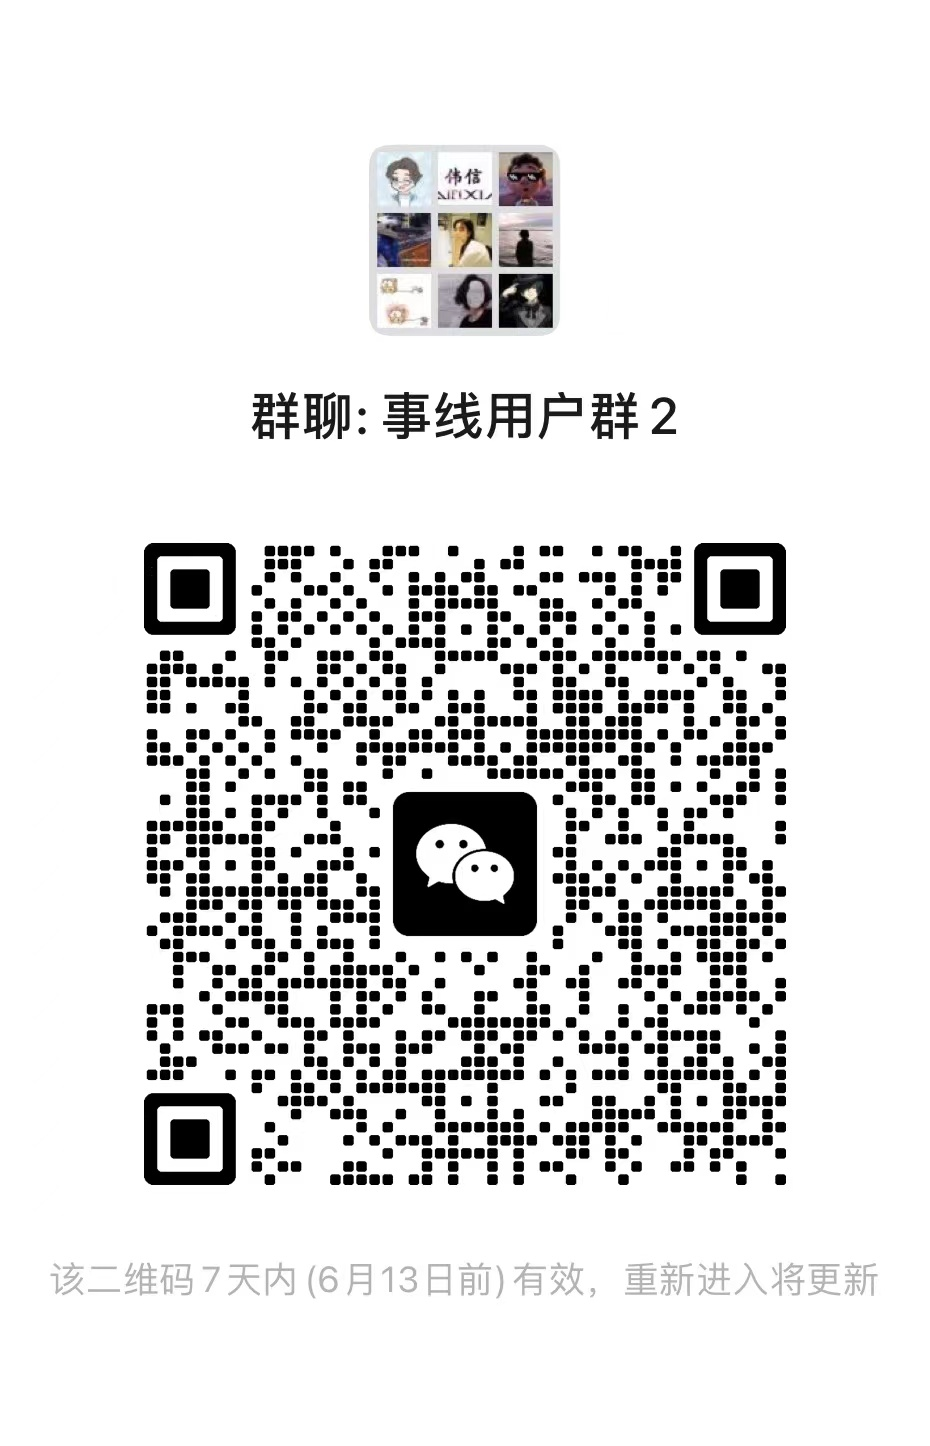
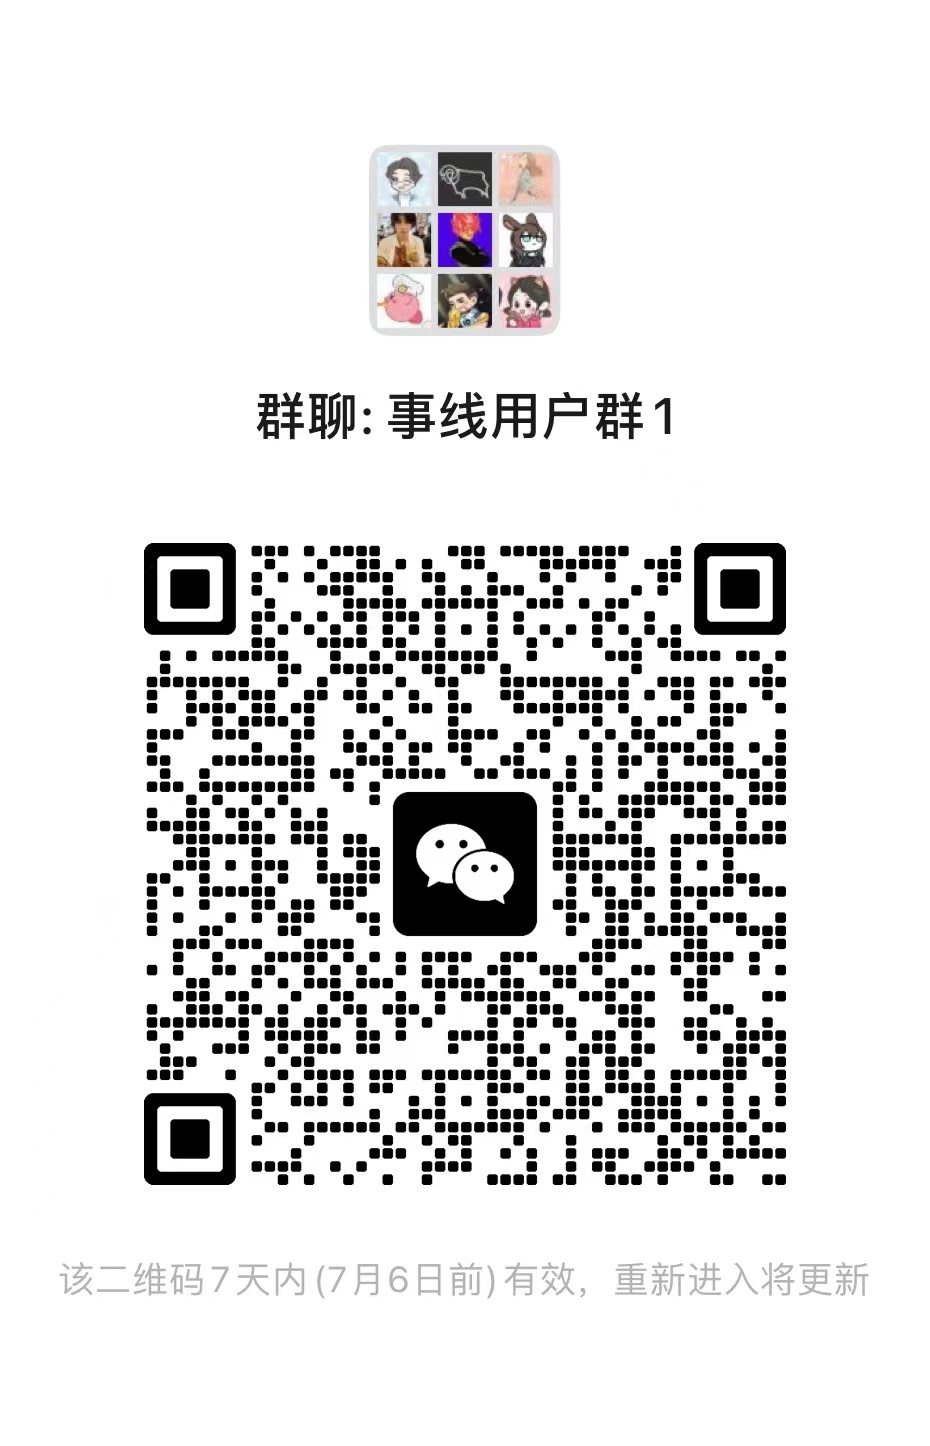
a

diff --git a/docs/01.pages/01.About/002.faq.md b/docs/01.pages/01.About/002.faq.md
@@ -26,3 +26,6 @@ permalink: /pages/046916/
 由于开发者（我）并不是全职独立开发，暂没有更多的精力适配其他平台。如果未来用户基数较大，会考虑抽出更多精力开发web端等。优先级：Web > Android > Mac > Win
 
 
+## 什么时候有Web？
+
+因为一些因素。web版会在较晚时候推出，

diff --git a/docs/01.pages/03.共建/002.用户群.md b/docs/01.pages/03.共建/002.用户群.md
@@ -9,7 +9,7 @@ permalink: /pages/16d8ae/
 
 <img src="/img/vx.jpg" class="no-zoom" style="width:15rem;margin: 10px;border-radius: 15px;margin: 2rem 0;box-shadow: 0 0px 20px rgb(0 0 0 / 20%);">
 
-#### （6月13日失效）
+#### （7月6日失效）
 
 
 :::
